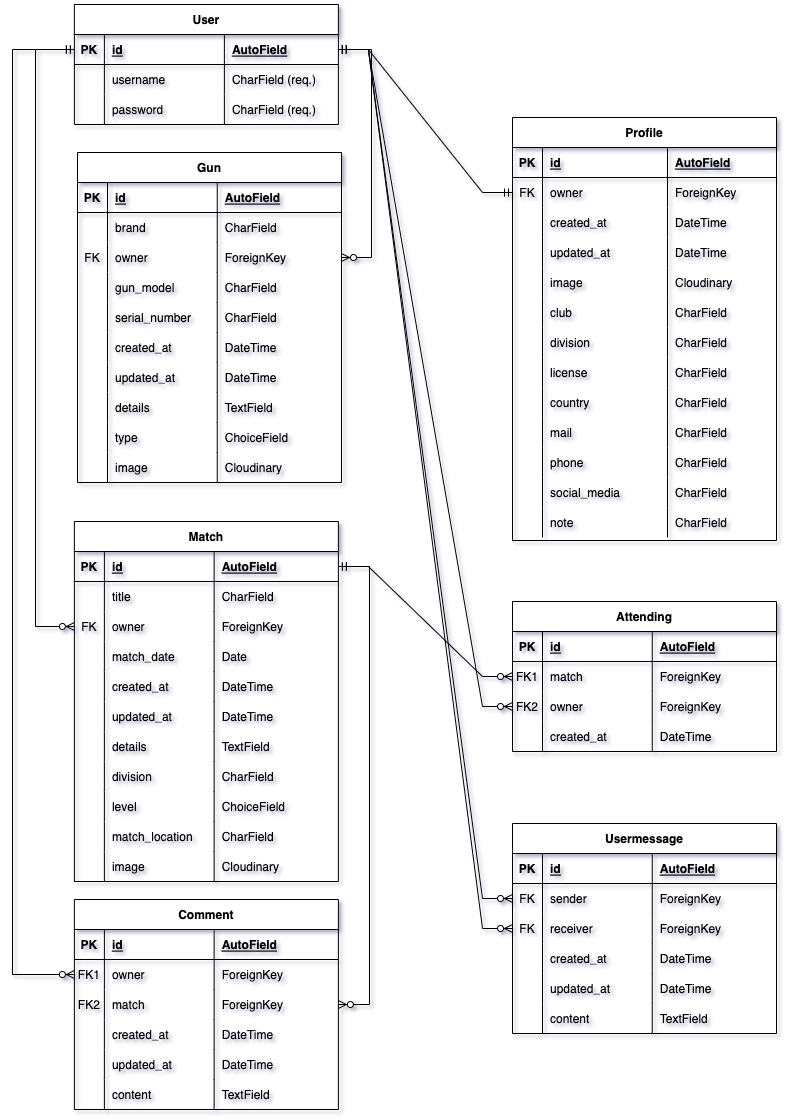
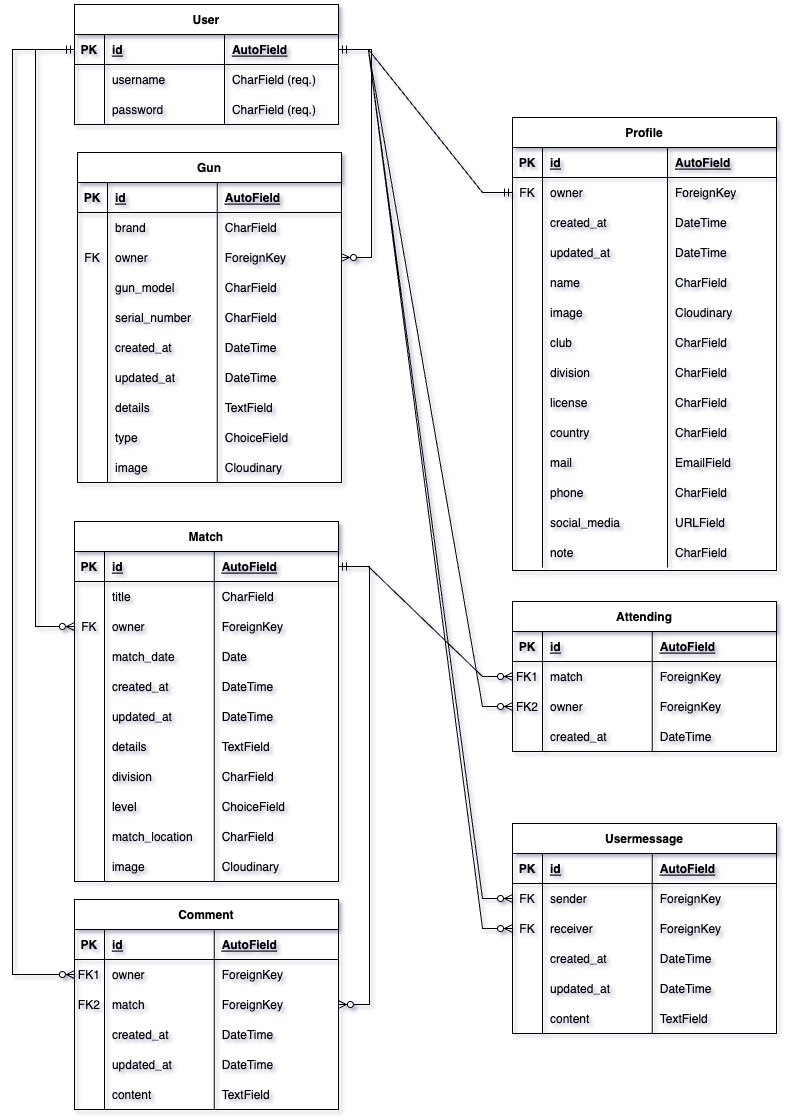
refactor: Update model fields & docs
This commit will update the email and social_media fields in the
profiles model.
It will also add the updated ERD docs file.

diff --git a/profiles/migrations/0003_auto_20230810_0600.py b/profiles/migrations/0003_auto_20230810_0600.py
@@ -1,0 +1,23 @@
+# Generated by Django 3.2.20 on 2023-08-10 06:00
+
+from django.db import migrations, models
+
+
+class Migration(migrations.Migration):
+
+    dependencies = [
+        ('profiles', '0002_profile_name'),
+    ]
+
+    operations = [
+        migrations.AlterField(
+            model_name='profile',
+            name='mail',
+            field=models.EmailField(blank=True, max_length=20),
+        ),
+        migrations.AlterField(
+            model_name='profile',
+            name='social_media',
+            field=models.URLField(blank=True, max_length=50),
+        ),
+    ]

diff --git a/profiles/models.py b/profiles/models.py
@@ -15,9 +15,9 @@ class Profile(models.Model):
     division = models.CharField(max_length=50, blank=True)
     license = models.CharField(max_length=20, blank=True)
     country = models.CharField(max_length=20, blank=True)
-    mail = models.CharField(max_length=50, blank=True)
+    mail = models.EmailField(max_length=20, blank=True)
     phone = models.CharField(max_length=20, blank=True)
-    social_media = models.CharField(max_length=50, blank=True)
+    social_media = models.URLField(max_length=50, blank=True)
     note = models.TextField(blank=True)
 
     class Meta:
